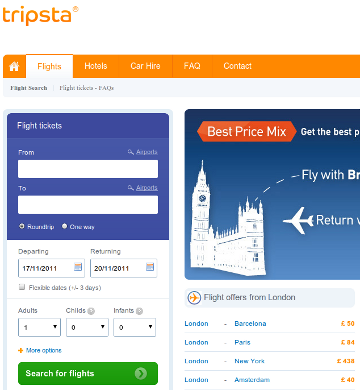
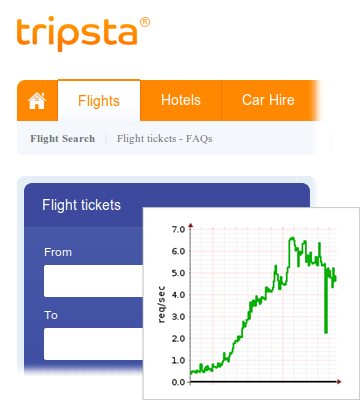
Added charts to BackPack use case

diff --git a/site/src/sass/main.sass b/site/src/sass/main.sass
@@ -259,6 +259,14 @@ footer
     margin-bottom: 0
 
 #projects
+  .heading
+    +grid(12, 12)
+    +border_bottom_dark
+  h1
+    margin-bottom: 0
+  p.subtitle
+    margin: 0 0 0.2em
+    color: #999999
   h2
     +grid(12, 12)
     clear: left
@@ -293,8 +301,10 @@ footer
     p
       margin: -0.7em 0 0.7em
   #backpack
+    clear: left
     +clearfix
     +border_bottom_dark
+    +border_top_light
     padding: 4em 0
     h3, .description
       +grid(9, 16)
@@ -317,6 +327,10 @@ footer
 
 #backpack-page
   #main
+    .inner
+      padding-bottom: 2em
+    h1
+      +grid(16, 16)
     img
       float: right
       background: #fff
@@ -324,10 +338,21 @@ footer
       +border_dark
       margin-top: 2em
     .description
-      +grid(9, 16)
-      +alpha
       font-size: 1.1em
       margin-top: 1em
+      p
+        +grid(9, 16)
+    .back
+      clear: left
+    .charts
+      +reset-box-model
+      clear: left
+      list-style: none
+      li
+        +grid(4, 12)
+        +clearfix
+      img
+        float: none
 
 #team
   .members_row
